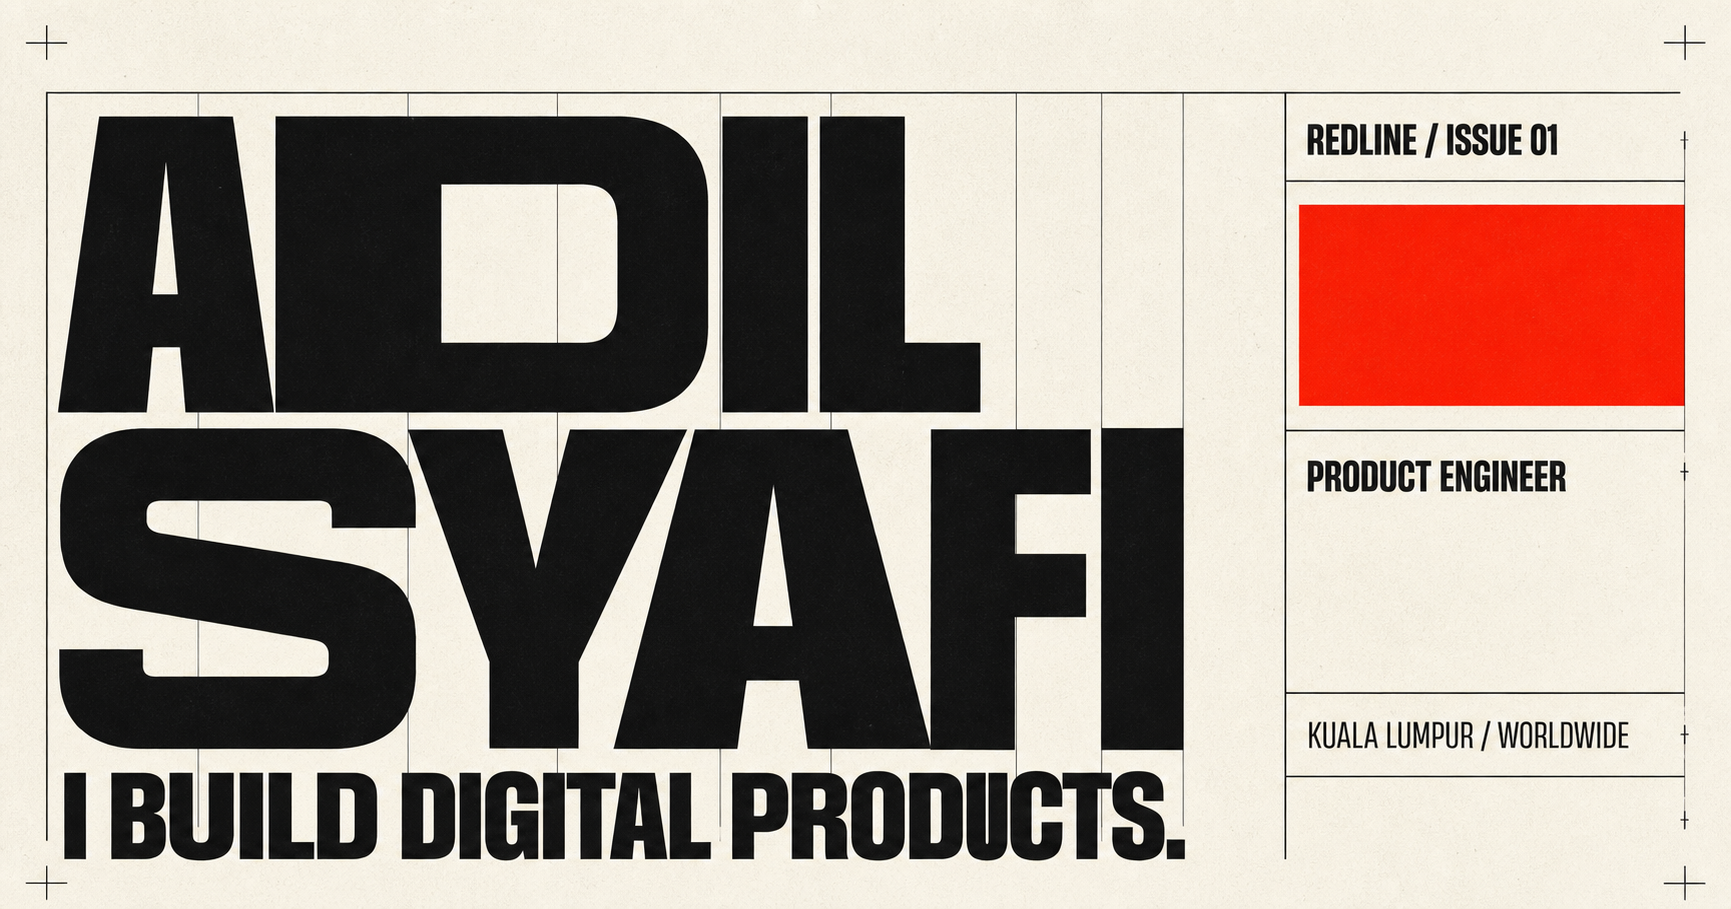
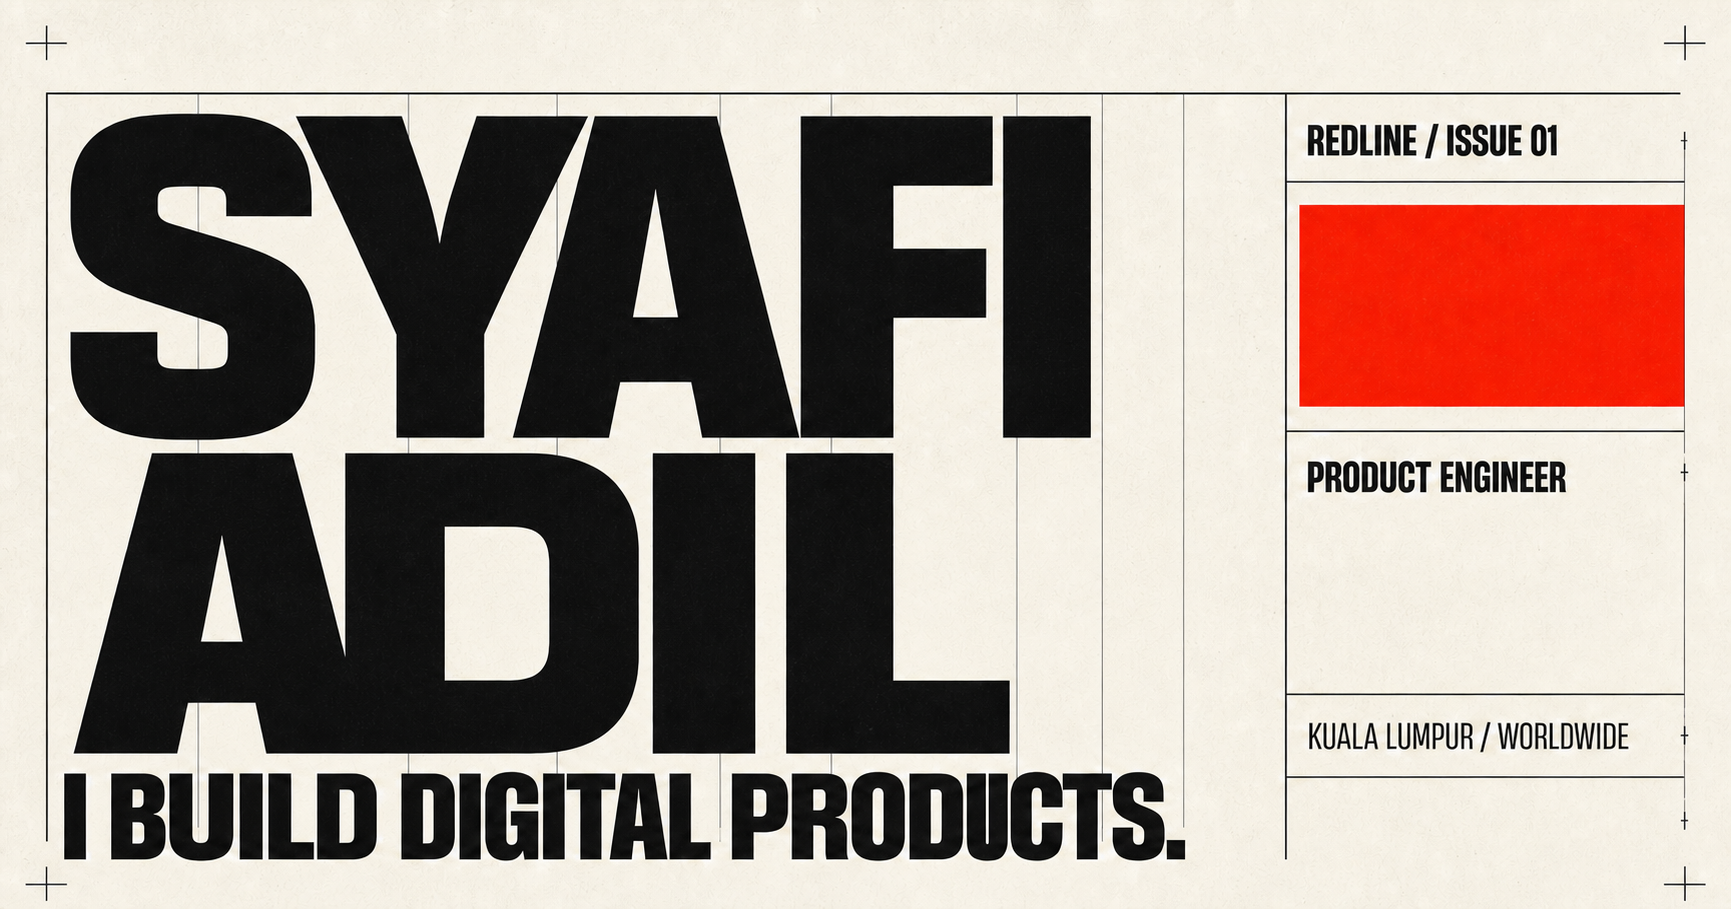
Correct portfolio name to Syafi Adil

diff --git a/app/page.tsx b/app/page.tsx
@@ -380,7 +380,7 @@ function MagneticContact() {
   const copyEmail = async () => {
     try {
       if (!navigator.clipboard) throw new Error("Clipboard unavailable");
-      await navigator.clipboard.writeText("hello@adilsyafi.dev");
+      await navigator.clipboard.writeText("hello@syafiadil.dev");
       setCopyStatus("copied");
     } catch {
       setCopyStatus("failed");
@@ -489,7 +489,7 @@ export default function Home() {
                 animate={reduceMotion ? undefined : { y: 0 }}
                 transition={{ duration: 0.64, ease }}
               >
-                ADIL SYAFI
+                SYAFI ADIL
               </motion.span>
             </div>
             <div className="intro-meter">
@@ -505,8 +505,8 @@ export default function Home() {
       </AnimatePresence>
 
       <header className="site-header">
-        <a href="#top" className="wordmark" aria-label="Adil Syafi, back to top">
-          <span>AS</span><i />
+        <a href="#top" className="wordmark" aria-label="Syafi Adil, back to top">
+          <span>SA</span><i />
         </a>
         <nav aria-label="Primary navigation">
           <a href="#about"><small>01</small> About</a>
@@ -526,7 +526,7 @@ export default function Home() {
         <div className="hero-grid" aria-hidden="true"><i className="scanner" /></div>
         <motion.div className="hero-content" style={{ y: heroY, opacity: heroOpacity }}>
           <div className="hero-kicker">
-            <span>ADIL SYAFI</span>
+            <span>SYAFI ADIL</span>
             <span>PRODUCT ENGINEER / CREATIVE DEVELOPER</span>
             <span>KL 03°08′N 101°41′E</span>
           </div>
@@ -628,17 +628,17 @@ export default function Home() {
               <p>Good. Those are the interesting ones.</p>
             </Reveal>
             <Reveal className="contact-action" delay={0.1}>
-              <p>I’m available for select product engineering and creative development projects from Q4 2026. Write to <a className="contact-email" href="mailto:hello@adilsyafi.dev">hello@adilsyafi.dev</a>.</p>
+              <p>I’m available for select product engineering and creative development projects from Q4 2026. Write to <a className="contact-email" href="mailto:hello@syafiadil.dev">hello@syafiadil.dev</a>.</p>
               <MagneticContact />
               <small>CLICK TO COPY THE ADDRESS</small>
             </Reveal>
           </div>
           <footer>
-            <span>© 2026 ADIL SYAFI</span>
+            <span>© 2026 SYAFI ADIL</span>
             <div>
-              <a href="https://github.com/adilsyafi" target="_blank" rel="noreferrer">GITHUB ↗</a>
-              <a href="https://www.linkedin.com/in/adilsyafi" target="_blank" rel="noreferrer">LINKEDIN ↗</a>
-              <a href="https://read.cv/adilsyafi" target="_blank" rel="noreferrer">READ.CV ↗</a>
+              <a href="https://github.com/syafiadil" target="_blank" rel="noreferrer">GITHUB ↗</a>
+              <a href="https://www.linkedin.com/in/syafiadil" target="_blank" rel="noreferrer">LINKEDIN ↗</a>
+              <a href="https://read.cv/syafiadil" target="_blank" rel="noreferrer">READ.CV ↗</a>
             </div>
             <a href="#top">BACK TO TOP ↑</a>
           </footer>

diff --git a/app/layout.tsx b/app/layout.tsx
@@ -12,21 +12,21 @@ export async function generateMetadata(): Promise<Metadata> {
 
   return {
     metadataBase: new URL(baseUrl),
-    title: "Adil Syafi — Product Engineer & Creative Developer",
+    title: "Syafi Adil — Product Engineer & Creative Developer",
     description:
       "Kuala Lumpur-based product engineer crafting fast, humane digital products through systems thinking, interface design, and production code.",
     keywords: ["Product Engineer", "Creative Developer", "React Developer", "Kuala Lumpur", "Portfolio"],
-    authors: [{ name: "Adil Syafi" }],
+    authors: [{ name: "Syafi Adil" }],
     openGraph: {
-      title: "Adil Syafi — I Build Digital Products",
+      title: "Syafi Adil — I Build Digital Products",
       description: "Product engineering, interaction, and systems thinking—made clear.",
       type: "website",
       url: baseUrl,
-      images: [{ url: `${baseUrl}/og.png`, width: 1731, height: 909, alt: "Adil Syafi — Product Engineer" }],
+      images: [{ url: `${baseUrl}/og.png`, width: 1731, height: 909, alt: "Syafi Adil — Product Engineer" }],
     },
     twitter: {
       card: "summary_large_image",
-      title: "Adil Syafi — I Build Digital Products",
+      title: "Syafi Adil — I Build Digital Products",
       description: "Product engineering, interaction, and systems thinking—made clear.",
       images: [`${baseUrl}/og.png`],
     },

diff --git a/README.md b/README.md
@@ -1,4 +1,4 @@
-# Adil Syafi — Portfolio
+# Syafi Adil — Portfolio
 
 An editorial, motion-rich portfolio for a product engineer and creative developer. The single-page experience uses a paper/ink visual system, interactive project case studies, a capability radar, and a scroll-led experience timeline.
 
